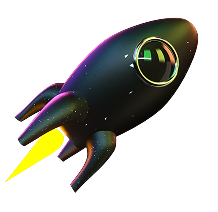
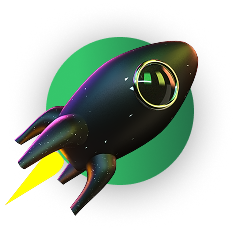
...

diff --git a/style.css b/style.css
@@ -113,6 +113,9 @@ header {
     display: flex;
     flex-direction: column;
     gap: 40px;
+    
+    z-index: 3;
+    position: relative;
 }
 
 .section1_left h1 {
@@ -135,6 +138,12 @@ header {
     color: #d9d9d9e6;
     letter-spacing: -2%;
     line-height: 163%;
+}
+
+.section1_btns{
+    display: flex;
+    flex-direction: row;
+    gap: 20px;
 }
 
 .section1_btns button:first-child {
@@ -289,6 +298,10 @@ header {
     justify-content: space-around;
     width: 100%;
     gap: 30px;
+
+    
+    z-index: 3;
+    position: relative;
 }
 
 .quality {
@@ -488,6 +501,8 @@ header {
     flex-direction: column;
     gap: 35px;
     max-width: 400px;
+    z-index: 3;
+    position: relative;
 }
 
 .section5_left h1 {
@@ -550,11 +565,13 @@ header {
 
 .section5_right {
     max-width: 500px;
+    z-index: 2;
 }
 
 .sec5 {
     margin-left: -100px;
     z-index: 3;
+    position: relative;
 }
 
 .span7 {
@@ -566,6 +583,15 @@ header {
     background: #2372498C;
     filter: blur(80px);
     box-shadow: 0px 0px 120px 60px, #35C66BBA;
+}
+
+.lines{
+    position: absolute;
+    opacity: 0.3;
+    top: 50%;
+    left: 50%;
+    transform: translate(-6%, 180%);
+    z-index: 1;
 }
 
 /****************** FIDAN ********************/
@@ -580,6 +606,8 @@ footer {
     justify-content: center;
     padding: 60px 0;
     color: #fff;
+    z-index: 2;
+    position: relative;
 }
 
 .footer_container {
@@ -844,6 +872,14 @@ footer {
 
     span {
         display: none;
+    }
+
+    .lines{
+        transform: translate(-90%, 430%);
+    }
+
+    .lines img{
+        width: 400px;
     }
 
     /*MODAL*/

diff --git a/index.html b/index.html
@@ -16,7 +16,7 @@
     <header>
         <div class="header_container">
             <div class="header_inside">
-                <h1 class="logo">StarBucks</h1>
+                <h1  onclick="bob()"  class="logo">StarBucks</h1>
 
                 <div class="menu" id="header_spread">
                     <a href="#">Home</a>
@@ -253,6 +253,10 @@
                 <div class="section5_right">
                     <img class="sec5" src="img/sec5.png" alt="#">
                     <span class="span7"></span>
+                </div>
+
+                <div class="lines">
+                    <img src="img/lines1.png" alt="">
                 </div>
             </div>
 

diff --git a/lighttheme.css b/lighttheme.css
@@ -92,3 +92,13 @@ body.light .span5, body.light .span2 {
 .light .nav-menu a{
     color: white;
 }
+
+.light .lines img    {
+  filter: brightness(0);
+}
+
+.light .section1_btns button:last-child {
+    background: none;
+    border: 1px solid  #237249;
+    color: black;
+}

diff --git a/script.js b/script.js
@@ -8,6 +8,11 @@ window.addEventListener("scroll", function () {
     }
 });
 
+function bob() {
+    window.location.href = window.location.href;
+}
+
+
 //menu
 
 const menuBtn = document.getElementById("menu-button");
